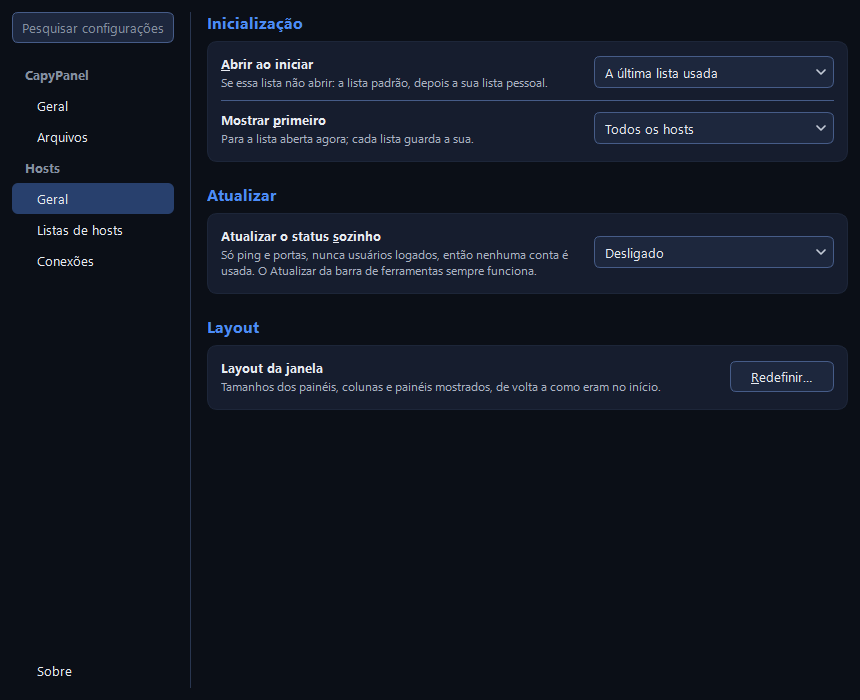
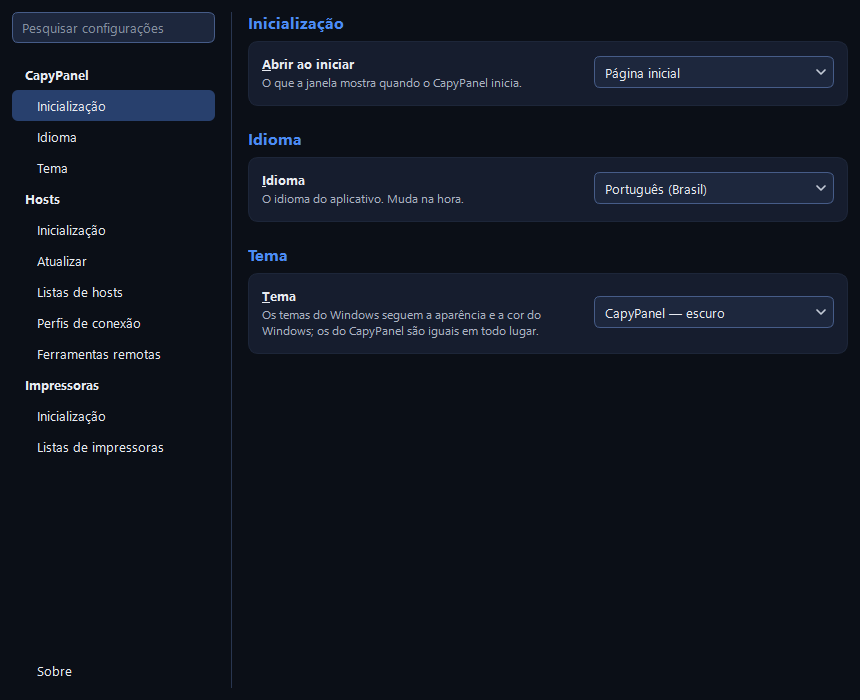
docs: screenshots of the window 0.20 opens
The four shots are taken from the app on this version, with invented printers, hosts, addresses
and accounts. Home and the Printers window are new to the pages; the main window and Settings
replace 0.19 shots of a window that no longer exists, now with the rail holding Home and both
tools, the host columns in their new order, and Settings as one page per group.

diff --git a/docs/getting-started.pt-BR.md b/docs/getting-started.pt-BR.md
@@ -31,6 +31,8 @@ ferramenta.
 | **Hosts** (Ctrl+1) | "Seus computadores: conecte, veja quem está logado, verifique-os." |
 | **Impressoras** (Ctrl+2) | "Suas impressoras: páginas web, detalhes, relatórios." |
 
+![A página inicial: a barra lateral à esquerda, a capivara e o nome do app, e um bloco para cada ferramenta](images/home-dark-pt-BR.png)
+
 A página inicial é o botão de cima da barra lateral, o **Exibir > Início** e o **Ctrl+0**. As duas
 ferramentas estão sempre lá; não há nada para ligar. Para começar em outro lugar, defina
 **Configurações > CapyPanel > Inicialização > Abrir ao iniciar** como a última ferramenta usada, ou

diff --git a/docs/getting-started.md b/docs/getting-started.md
@@ -30,6 +30,8 @@ with one line about it and its shortcut. Click a tile to open that tool.
 | **Hosts** (Ctrl+1) | "Your computers: connect, see who's logged on, check them." |
 | **Printers** (Ctrl+2) | "Your printers: web pages, details, reports." |
 
+![The Home page: the rail on the left, the capybara and the app's name, and a tile for each tool](images/home-dark.png)
+
 Home is the top button on the rail, **View > Home**, and **Ctrl+0**. Both tools are always there;
 there's nothing to turn on. To start somewhere else, set **Settings > CapyPanel > Startup > Open on
 startup** to the last used tool, or to one by name.

diff --git a/docs/printers/printers.pt-BR.md b/docs/printers/printers.pt-BR.md
@@ -10,6 +10,8 @@ Ela tem as próprias listas, separadas das da ferramenta Hosts (veja
 
 ## A janela
 
+![A janela Impressoras: grupos à esquerda, as impressoras no meio, os detalhes de uma à direita](../images/printers-dark-pt-BR.png)
+
 | Parte | O que mostra |
 |---|---|
 | **Barra de ferramentas** | **Abrir página web**, **Atualizar**, **Inventário** e **Relatório** |

diff --git a/docs/printers/printers.md b/docs/printers/printers.md
@@ -9,6 +9,8 @@ It has its own lists, kept apart from the Hosts tool's (see
 
 ## The window
 
+![The Printers window: groups on the left, the printers in the middle, one printer's details on the right](../images/printers-dark.png)
+
 | Part | What it shows |
 |---|---|
 | **Toolbar** | **Open web page**, **Refresh**, **Inventory** and **Report** |
